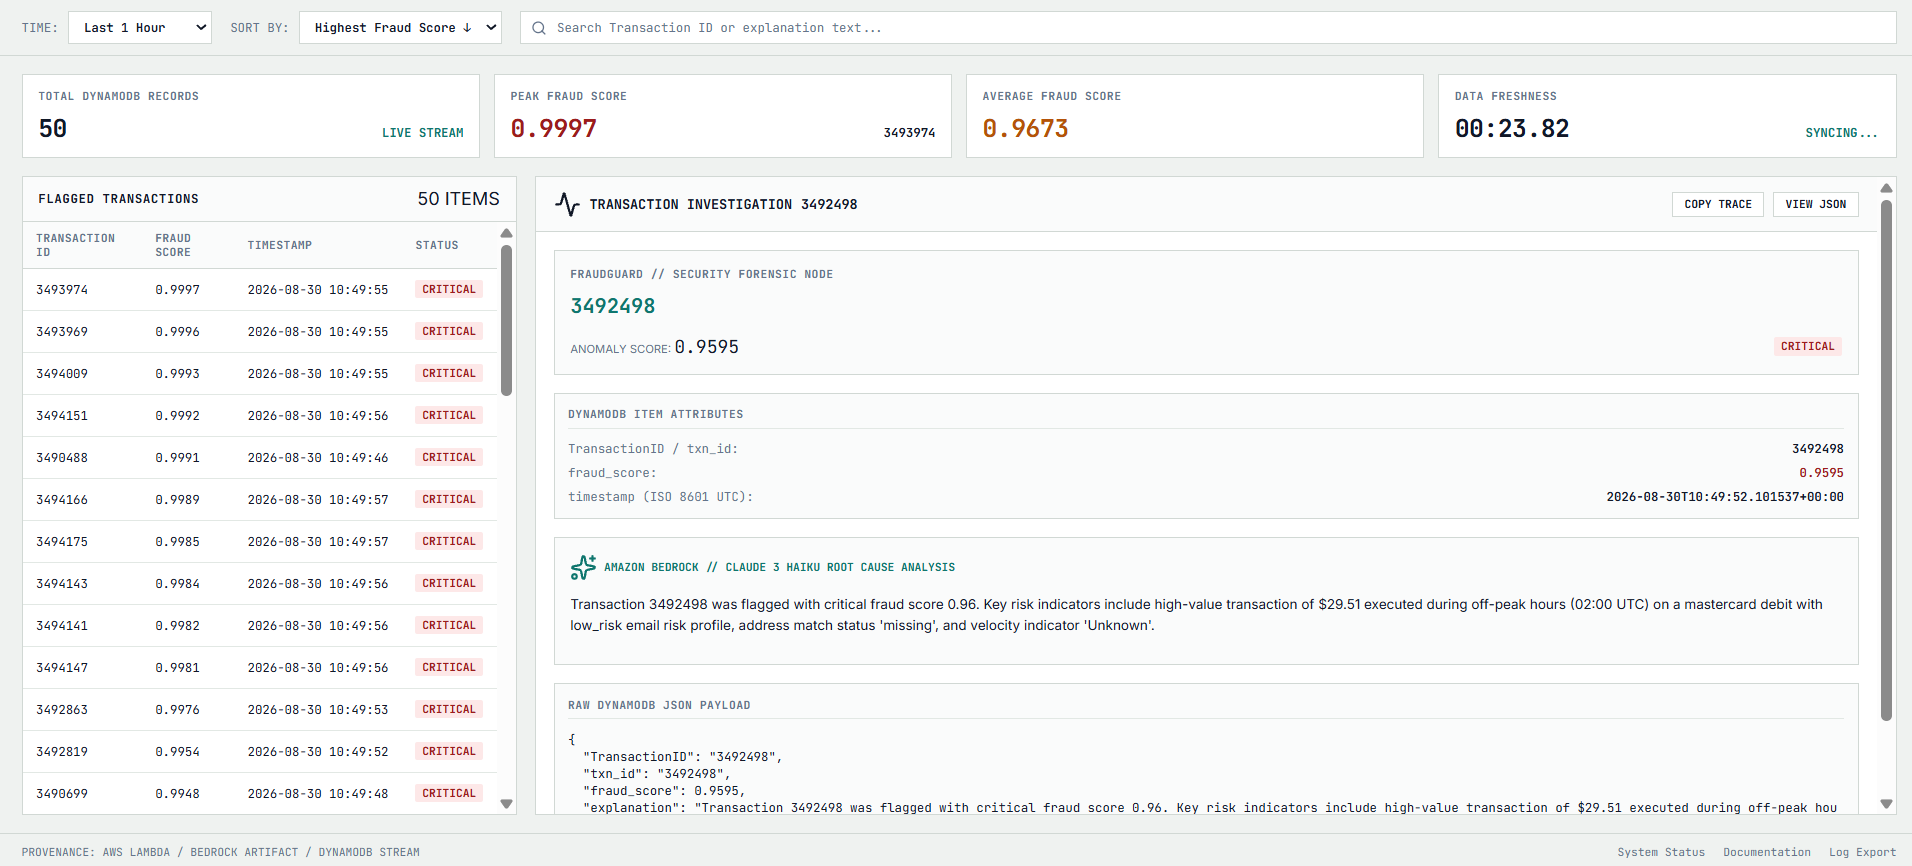
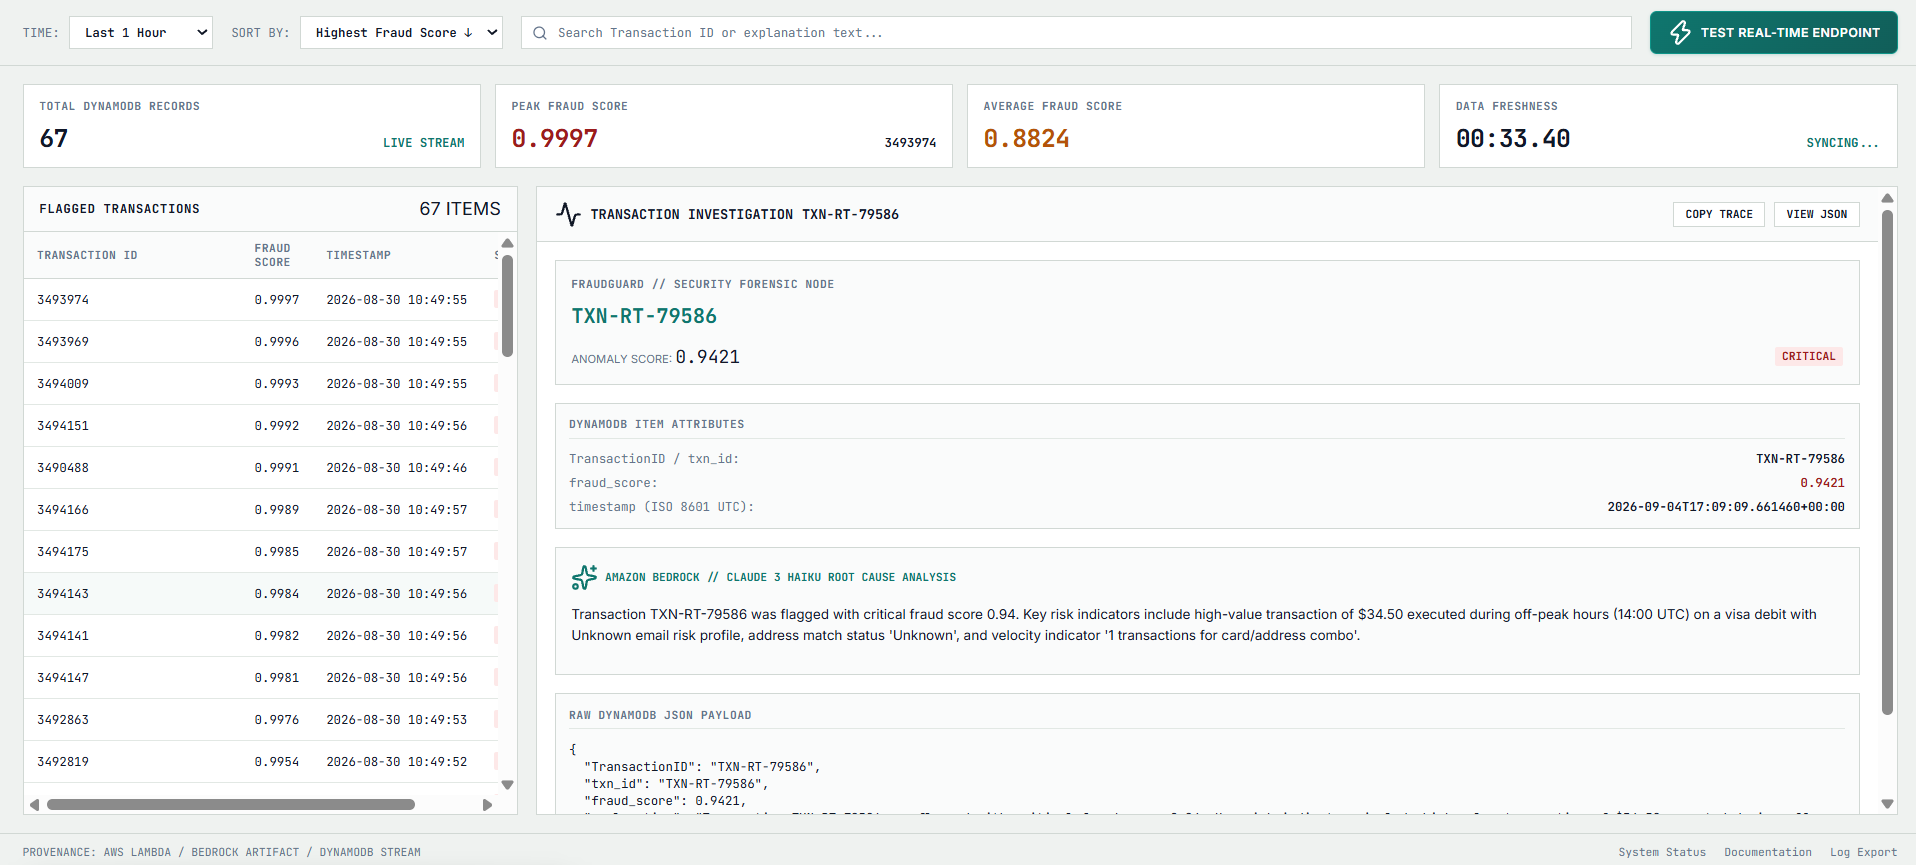
feat: Update README to include real-time sandbox and new images

diff --git a/readme.md b/readme.md
@@ -68,17 +68,21 @@ Forensic Operations Console (http://localhost:8080)
 
 ---
 
-##  Live Forensic Operations Console
+## 🖥 Live Forensic Operations Console & Real-Time Sandbox
 
-Inspect live flagged transactions, forensic dossiers, anomaly distributions, and Bedrock root-cause narratives:
+Inspect live flagged transactions, forensic dossiers, anomaly distributions, and Bedrock root-cause narratives, or test synchronous sub-second endpoint scoring interactively:
 
+### Live Investigation Queue & Dossier
 ![FraudGuard Live Ops Console](docs/img/web.png)
 
+### Real-Time Inference & Bedrock Explainability Sandbox
+![FraudGuard Real-Time Inference Modal](docs/img/real-time-web.png)
+
 ```powershell
-# Launch local operations console
+# Launch local operations console & interactive sandbox
 .\scripts\run_dashboard.ps1
 ```
-*Accessible at `http://localhost:8080` (auto-syncs with live DynamoDB alerts).*
+*Accessible at `http://localhost:8080` (auto-syncs with live DynamoDB alerts & allows testing cloud real-time predictions).*
 
 ---
 
